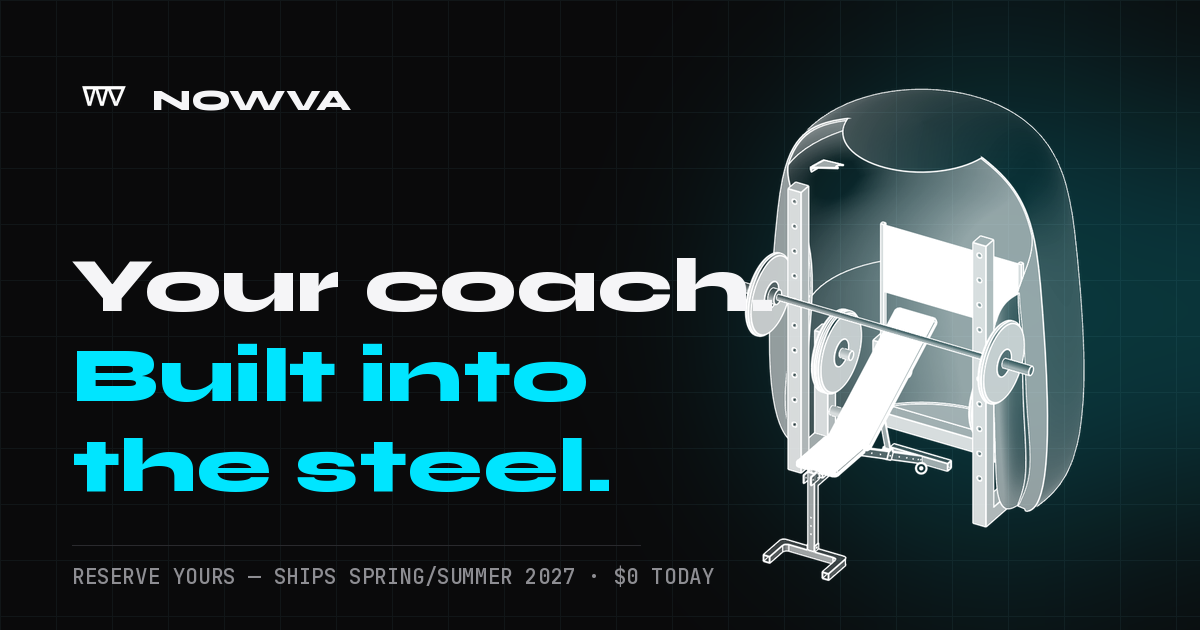
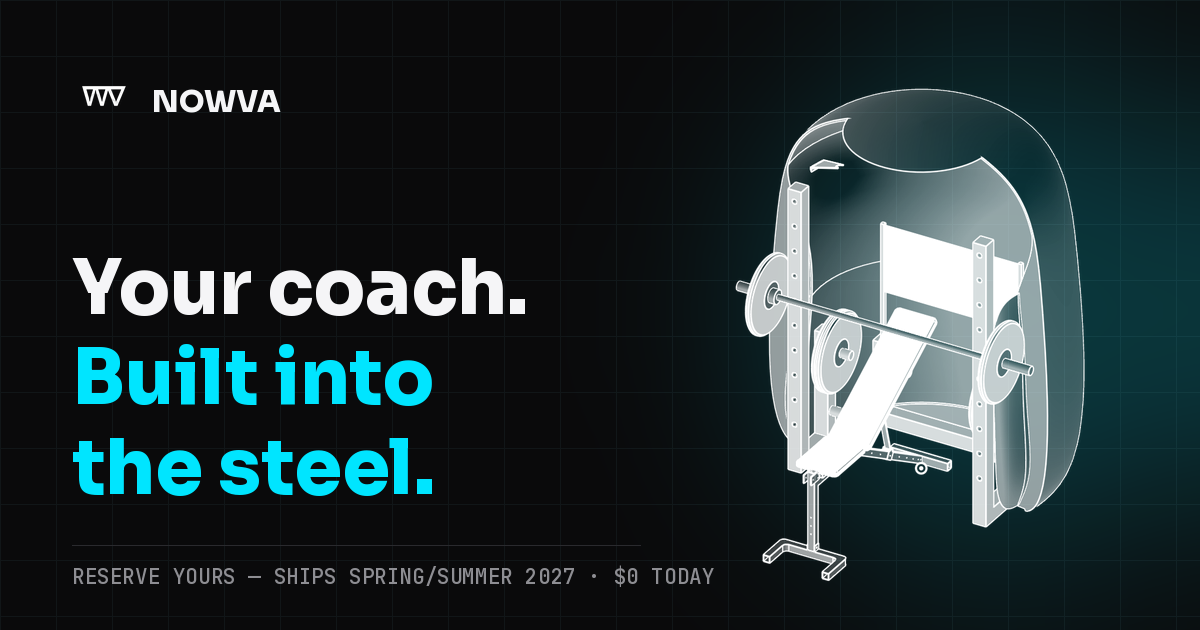
Swap display font from Syne to Sora across site and OG card

diff --git a/website/src/app/layout.tsx b/website/src/app/layout.tsx
@@ -1,5 +1,5 @@
 import type { Metadata, Viewport } from "next";
-import { JetBrains_Mono, Plus_Jakarta_Sans, Syne } from "next/font/google";
+import { JetBrains_Mono, Plus_Jakarta_Sans, Sora } from "next/font/google";
 import { GoogleAnalytics } from "@next/third-parties/google";
 import "./globals.css";
 import { IntroLoader } from "@/components/layout/IntroLoader";
@@ -7,10 +7,10 @@ import { Providers } from "@/components/layout/Providers";
 import { CookieBanner } from "@/components/layout/CookieBanner";
 import { DELIVERY, GA_ID, SITE_NAME, SITE_URL } from "@/lib/constants";
 
-const syne = Syne({
+const sora = Sora({
   subsets: ["latin"],
-  weight: ["700", "800"],
-  variable: "--font-syne",
+  weight: ["600", "700", "800"],
+  variable: "--font-sora",
 });
 
 const jakarta = Plus_Jakarta_Sans({
@@ -63,7 +63,7 @@ export default function RootLayout({
     <html
       lang="en"
       suppressHydrationWarning
-      className={`${syne.variable} ${jakarta.variable} ${jetbrains.variable} antialiased`}
+      className={`${sora.variable} ${jakarta.variable} ${jetbrains.variable} antialiased`}
     >
       <head>
         <script dangerouslySetInnerHTML={{ __html: INTRO_SCRIPT }} />

diff --git a/website/src/app/globals.css b/website/src/app/globals.css
@@ -81,7 +81,7 @@
   --color-on-cta: var(--on-cta);
   --color-border: var(--border);
   --color-border-strong: var(--border-strong);
-  --font-display: var(--font-syne), ui-serif, serif;
+  --font-display: var(--font-sora), ui-sans-serif, system-ui, sans-serif;
   --font-sans: var(--font-jakarta), ui-sans-serif, system-ui, sans-serif;
   --font-mono: var(--font-jetbrains), ui-monospace, monospace;
 }
@@ -322,7 +322,7 @@ html[data-intro="off"] .hero-img-in {
 }
 
 .intro-loader__word {
-  font-family: var(--font-syne);
+  font-family: var(--font-sora);
   font-weight: 800;
   font-size: 1.05rem;
   letter-spacing: 0.55em;
